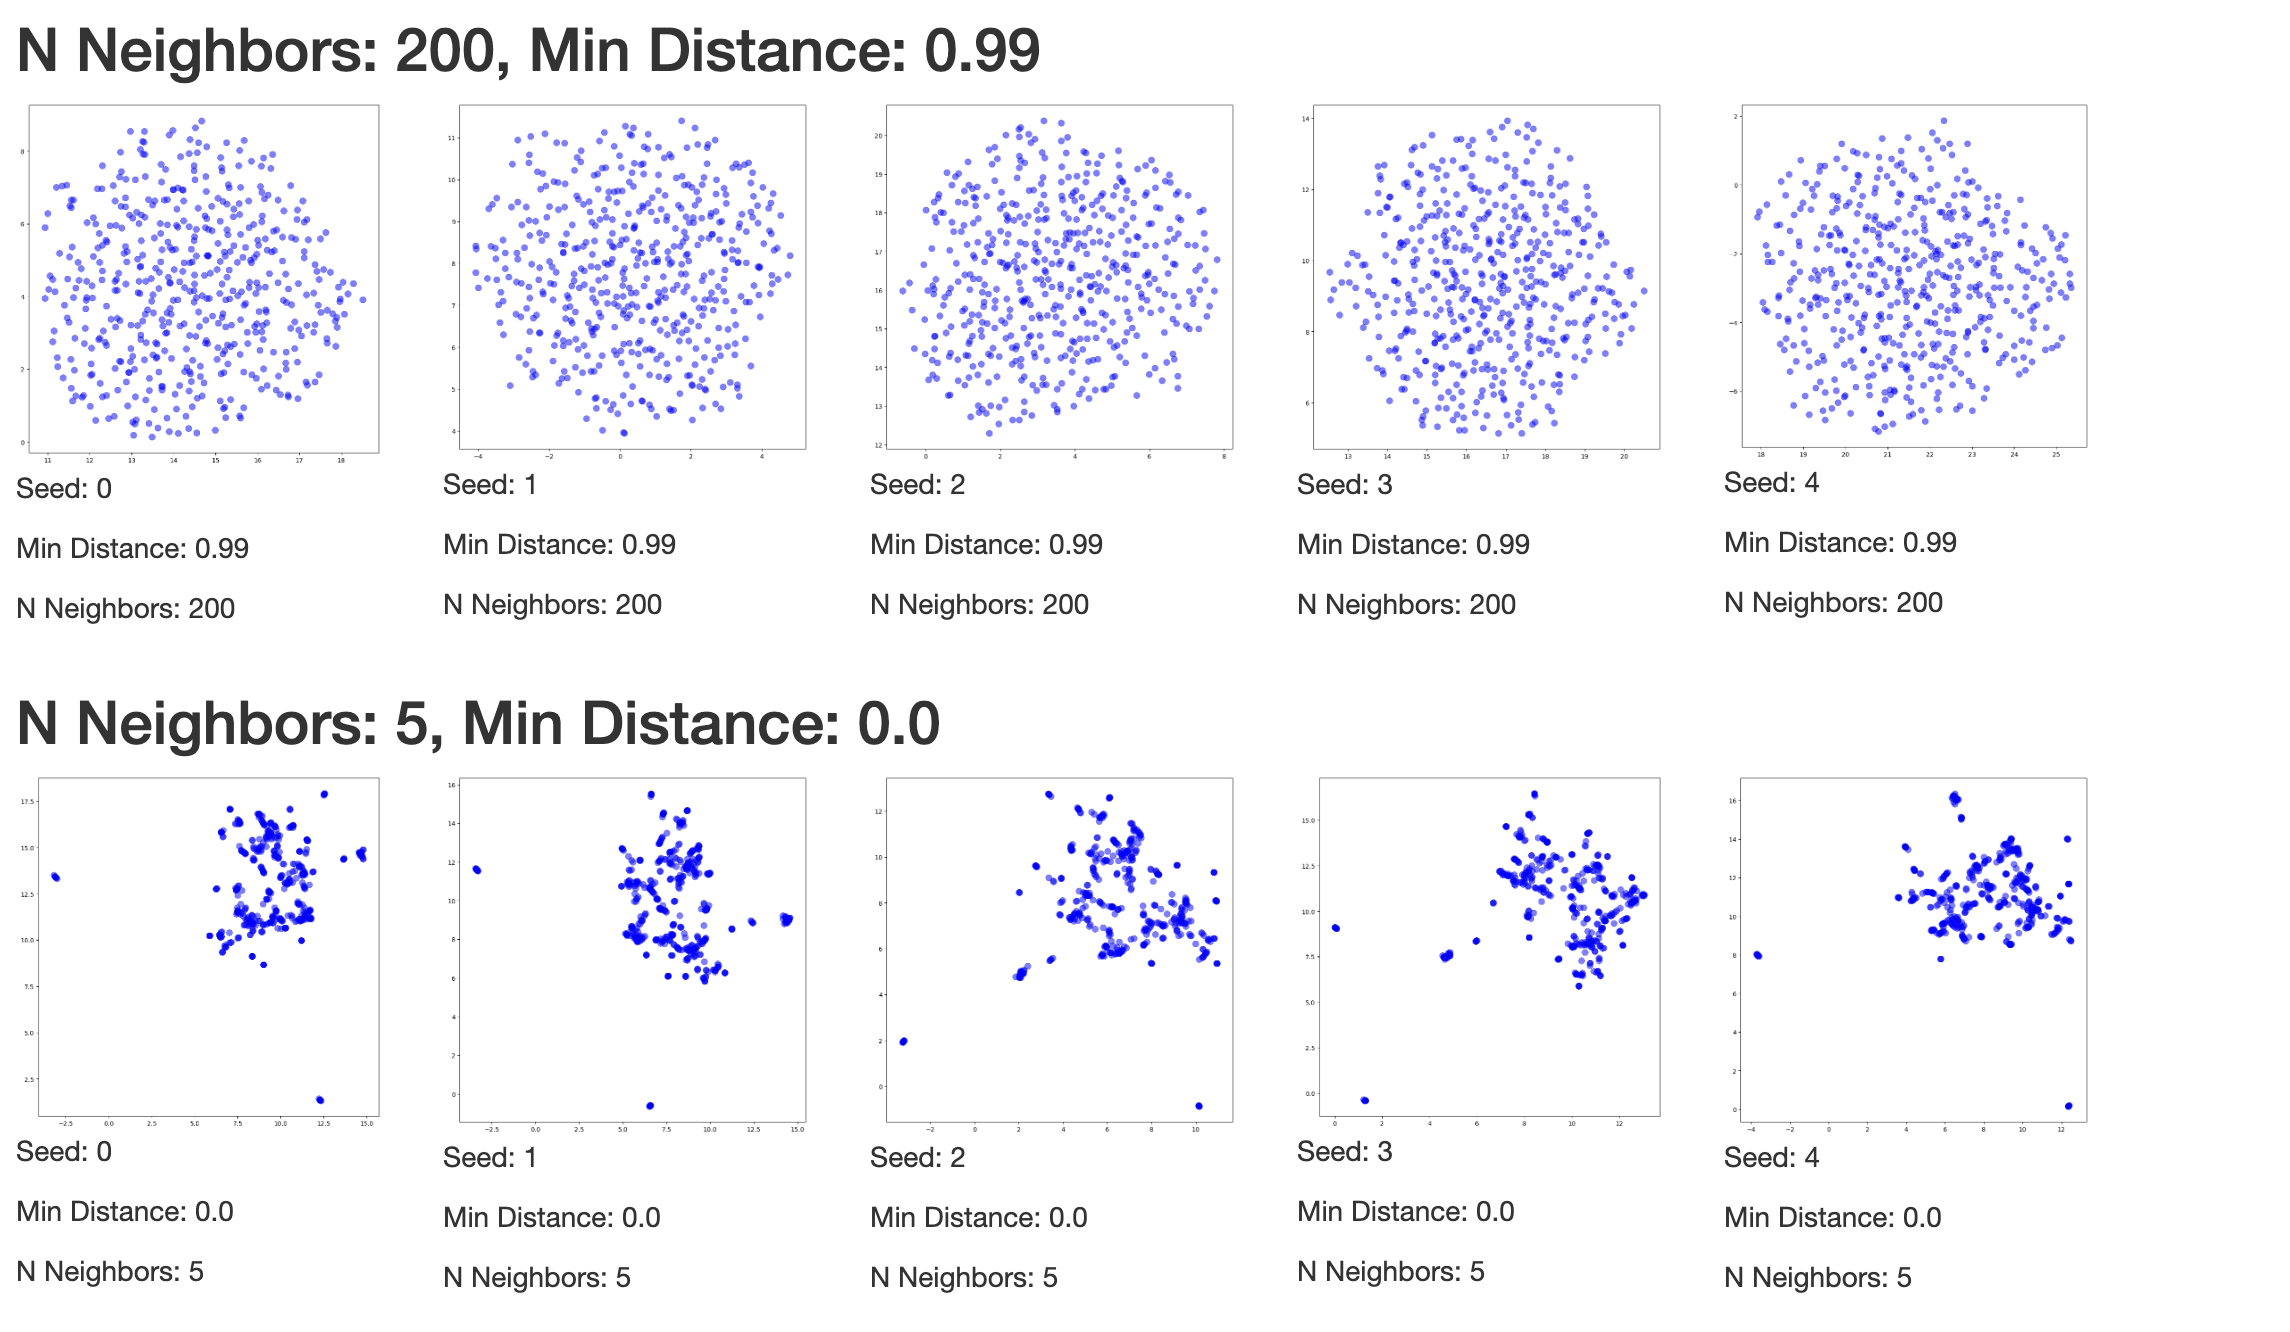
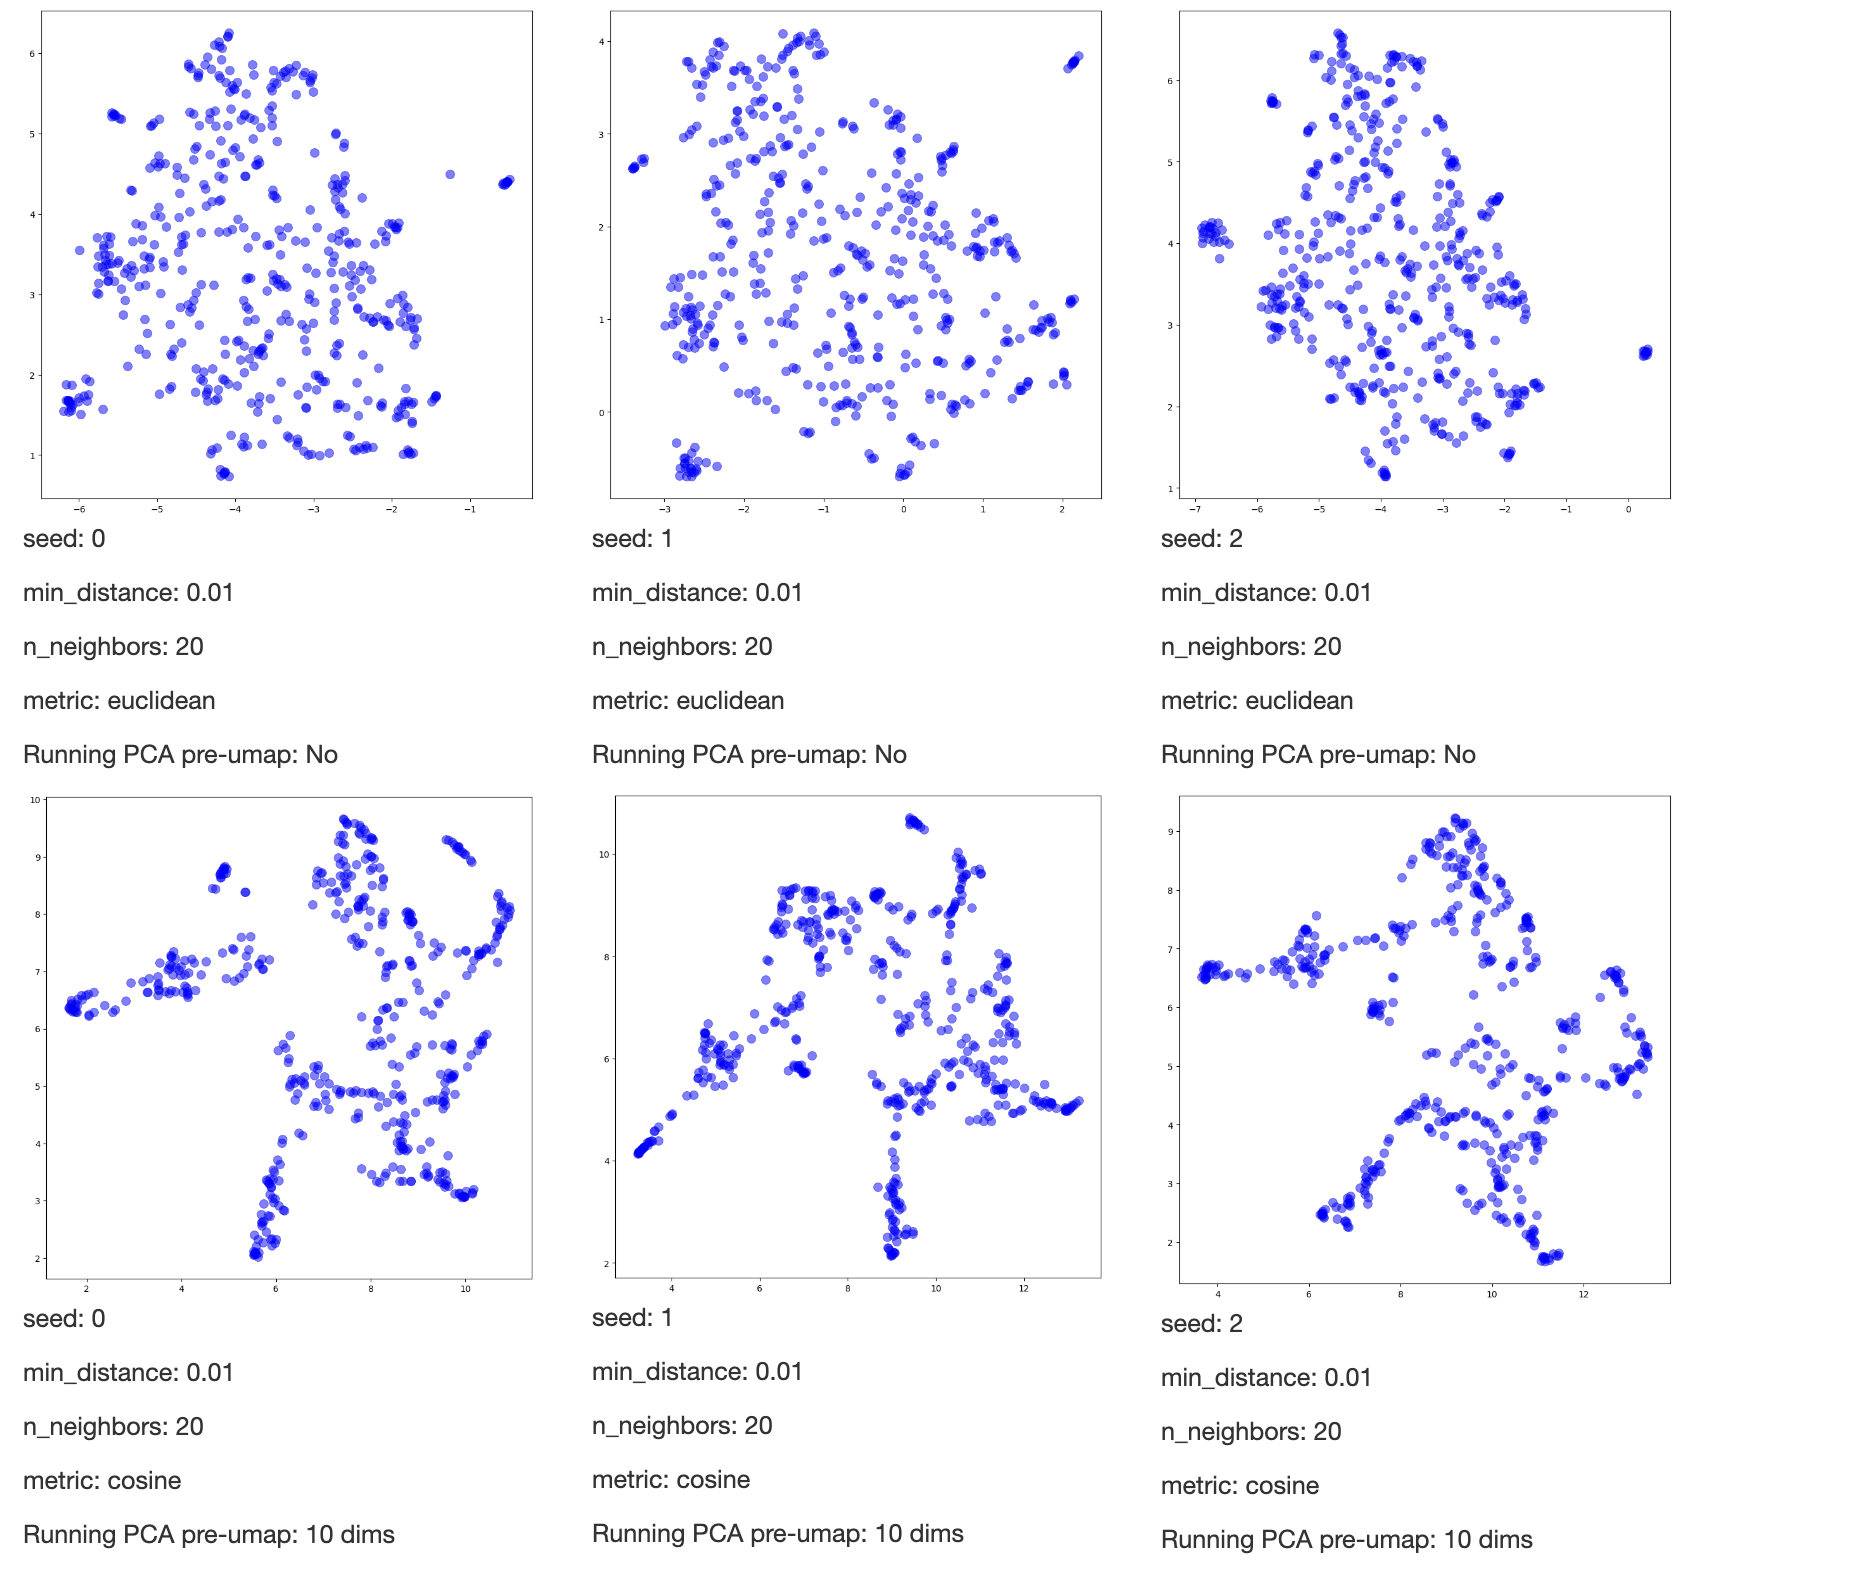
PCA, different metrics (#2)

diff --git a/nextflow/bin/templates/index.html b/nextflow/bin/templates/index.html
@@ -17,17 +17,19 @@
 </head>
 <body>
     <div class="container-fluid">
-        {% for (n_neighbors, min_distance), group in grouped %}
-            <h2 class="mb-3">N Neighbors: {{ n_neighbors }}, Min Distance: {{ min_distance }}</h2>
+        {% for (n_neighbors, min_distance, pca_dims, metric), group in grouped %}
             <div class="row">
                 {% for _, row in group.iterrows() %}
-                    <div class="col-md-2">
+                    <div class="col-md-3">
                         <div>
                             <img src="{{ url_for('static', filename=row.png) }}"
                                  class="scaled-img" >
-                            <p class="card-text">Seed: {{ row.seed }}</p>
-                            <p class="card-text">Min Distance: {{ row.min_distance }}</p>
-                            <p class="card-text">N Neighbors: {{ row.n_neighbors }}</p>
+                            <p>seed: {{ row.seed }}
+                            <p>min_distance: {{ min_distance }}
+                            <p>n_neighbors: {{ n_neighbors }}
+                            <p>metric: {{ metric }}
+                            <p>Running PCA pre-umap:
+                            {{ 'No' if pca_dims == '0' else pca_dims ~ ' dims' }}
                         </div>
                     </div>
                 {% endfor %}

diff --git a/nextflow/bin/serve_flask.py b/nextflow/bin/serve_flask.py
@@ -21,23 +21,27 @@ def _split_line(line):
 
 
 def _get_df(png_data):
-    pngs, seeds, n_neighbs, min_dists = [], [], [], []
+    pngs, seeds, n_neighbs, min_dists, pca_dims, metrics = [], [], [], [], [], []
     for i, line in enumerate(Path(png_data).read_text().split("\n")):
         if not line:
             continue
         fields = _split_line(line)
-        if len(fields) != 4:
+        if len(fields) != 6:
             raise ValueError(f"Unexpected format line {i}: '{line}'")
         pngs.append(Path(fields[0]).name)
         seeds.append(fields[1])
         n_neighbs.append(fields[2])
         min_dists.append(fields[3])
+        pca_dims.append(fields[4])
+        metrics.append(fields[5])
     return pd.DataFrame(
         {
             "png": pngs,
             "seed": seeds,
             "min_distance": min_dists,
             "n_neighbors": n_neighbs,
+            "pca_dims": pca_dims,
+            "metric": metrics,
         }
     )
 
@@ -46,8 +50,10 @@ def _get_df(png_data):
 def home():
     df = _get_df(args.png_data)
 
-    df = df.sort_values(by=["n_neighbors", "min_distance", "seed"])
-    grouped = df.groupby(["n_neighbors", "min_distance"])
+    df = df.sort_values(
+        by=["n_neighbors", "min_distance", "pca_dims", "metric", "seed"]
+    )
+    grouped = df.groupby(["n_neighbors", "min_distance", "pca_dims", "metric"])
 
     return render_template("index.html", grouped=grouped)
 

diff --git a/nextflow/bin/gen_umap.py b/nextflow/bin/gen_umap.py
@@ -12,15 +12,21 @@ def _get_input_embeds(df):
     return df[embed_cols].values
 
 
-def gen_umap(data, seed, n_neighbors, min_dist, csv_outfile):
+def gen_umap(data, seed, n_neighbors, min_dist, pca_dims, metric, csv_outfile):
     data_df = pd.read_csv(data)
 
     # float<num_examples, embed_dim>.
     input_embeds = _get_input_embeds(data_df)
 
+    if pca_dims:
+        pca = PCA(n_components=pca_dims, random_state=seed)
+        # float<num_examples, pca_dims>
+        input_embeds = pca.fit_transform(input_embeds)
+
     reducer = umap.UMAP(
         min_dist=min_dist,
         n_neighbors=n_neighbors,
+        metric=metric,
         random_state=seed,
     )
 
@@ -42,6 +48,8 @@ if __name__ == "__main__":
     parser.add_argument("--seed", type=int, required=True)
     parser.add_argument("--n_neighbors", type=int, required=True)
     parser.add_argument("--min_dist", type=float, required=True)
+    parser.add_argument("--pca_dims", type=int, required=True)
+    parser.add_argument("--metric", type=str, required=True)
     parser.add_argument("--csv_outfile", type=str, required=True)
     args = parser.parse_args()
     gen_umap(
@@ -49,5 +57,7 @@ if __name__ == "__main__":
         seed=args.seed,
         n_neighbors=args.n_neighbors,
         min_dist=args.min_dist,
+        pca_dims=args.pca_dims,
+        metric=args.metric,
         csv_outfile=args.csv_outfile,
     )

diff --git a/nextflow/bin/print_pca_dims.py b/nextflow/bin/print_pca_dims.py
@@ -1,0 +1,24 @@
+#!/usr/bin/env python
+
+import argparse
+
+import pandas as pd
+
+
+N = [0, 10, 20, 50, 100, 200, 500]
+
+
+def print_pca_dims(data):
+    data_df = pd.read_csv(data)
+    max_n = len(data_df)
+
+    for n in N:
+        if n < max_n:
+            print(n)
+
+
+if __name__ == "__main__":
+    parser = argparse.ArgumentParser()
+    parser.add_argument("--data", type=str, required=True)
+    args = parser.parse_args()
+    print_pca_dims(data=args.data)

diff --git a/README.md b/README.md
@@ -29,8 +29,8 @@ Once that is done, call:
 ./umap_grid --data=[your_csv].csv
 ```
 
-This will populate a directory called `results` and display the plots therein
-at `http://locahost:5000`. Press control-c to exit.
+After a few minutes this will populate a directory called `results` and display the
+plots therein at `http://locahost:5000`. Press control-c to exit.
 
 Other params you can pass to `umap_grid`:
 - `--num_seeds`: the number of different rand seeds to try.
